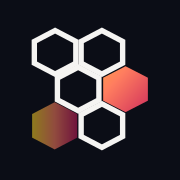
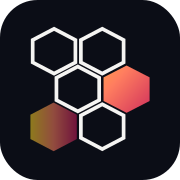
Rebrand apps/web static site + notification email to Nocturne Violet
Nocturne navy surfaces, violet accent, restored gold->flame->crimson ember
gradient across the marketing page and reader; new favicon/og/apple-touch
assets from docs/brand; email CTA button on the brand violet.

Claude-Session: https://claude.ai/code/session_01RsPsPdYDMCQDKQfNmQ5apR

diff --git a/apps/web/index.html b/apps/web/index.html
@@ -6,7 +6,7 @@
 <title>Oxagen — AI coding agents with your context. Governed, metered, on the record.</title>
 <meta name="description" content="Oxagen is an AI coding agent for your terminal and a control plane for your whole fleet. It turns your code and business data into one connected map, so agents get the right answer the first time — and every action is approved, measured, and on the record.">
 <link rel="canonical" href="https://oxagen.sh/">
-<meta name="theme-color" content="#090B11">
+<meta name="theme-color" content="#0B0D16">
 <meta name="color-scheme" content="dark">
 <meta property="og:type" content="website">
 <meta property="og:url" content="https://oxagen.sh/">
@@ -53,22 +53,22 @@
 <style>
 /* ============ tokens ============ */
 :root{
-  --bg:#090B11;
-  --bg-raise:#0C0F17;
-  --surface:#0F121A;
-  --card:#10141D;
-  --line:#292E37;
-  --line-strong:#323A48;
-  --ink:#F1EDEA;
-  --ink-soft:#D8D2CB;
-  --muted:#BCB2A9;
-  --faint:#6F7785;
-  --ember-a:#EB5C5E;
-  --ember-b:#F07650;
-  --ember-c:#FD9A4C;
+  --bg:#0B0D16;
+  --bg-raise:#13101E;
+  --surface:#15131F;
+  --card:#171424;
+  --line:#2B2640;
+  --line-strong:#363050;
+  --ink:#F5F4F2;
+  --ink-soft:#D9D4E3;
+  --muted:#B6AFC9;
+  --faint:#7E7791;
+  --ember-a:#C2185B;
+  --ember-b:#FF7E5F;
+  --ember-c:#F9D423;
   --ember-soft:#261507;
-  --indigo:#9CA3E8;
-  --indigo-soft:#151A30;
+  --indigo:#A78BFA;
+  --indigo-soft:#1E1A2E;
   --ok:#7BC98A;
   --grad-ember:linear-gradient(92deg,var(--ember-a) 0%,var(--ember-b) 46%,var(--ember-c) 100%);
   --radius:14px;
@@ -392,7 +392,7 @@ button,input,textarea{font:inherit;color:inherit}
 .book-scene{perspective:1200px;display:grid;place-items:center;padding:16px 0}
 .book{
   width:min(320px,78%);aspect-ratio:10/15;border-radius:10px;position:relative;
-  background:linear-gradient(160deg,#0D1018 0%,#090B11 60%,#0E0A0C 100%);
+  background:linear-gradient(160deg,#110F1A 0%,#0B0D16 60%,#140E17 100%);
   border:1px solid var(--line-strong);
   box-shadow:24px 34px 70px -30px rgba(0,0,0,.85),0 0 0 1px rgba(255,255,255,.03) inset;
   transform:rotateY(-9deg) rotateX(2deg);
@@ -532,16 +532,16 @@ footer{border-top:1px solid var(--line);background:var(--bg-raise);padding:64px 
 <svg width="0" height="0" style="position:absolute" aria-hidden="true">
   <defs>
     <linearGradient id="emberStroke" x1="0" y1="1" x2="1" y2="0">
-      <stop offset="0" stop-color="#EB5C5E"/><stop offset=".5" stop-color="#F07650"/><stop offset="1" stop-color="#FD9A4C"/>
+      <stop offset="0" stop-color="#C2185B"/><stop offset=".5" stop-color="#FF7E5F"/><stop offset="1" stop-color="#F9D423"/>
     </linearGradient>
     <linearGradient id="emberFill" x1="0" y1="0" x2="1" y2="1">
-      <stop offset="0" stop-color="#FD9A4C"/><stop offset="1" stop-color="#EB5C5E"/>
+      <stop offset="0" stop-color="#F9D423"/><stop offset="1" stop-color="#C2185B"/>
     </linearGradient>
     <linearGradient id="emberStrokeB" x1="0" y1="1" x2="1" y2="0">
-      <stop offset="0" stop-color="#EB5C5E"/><stop offset=".5" stop-color="#F07650"/><stop offset="1" stop-color="#FD9A4C"/>
+      <stop offset="0" stop-color="#C2185B"/><stop offset=".5" stop-color="#FF7E5F"/><stop offset="1" stop-color="#F9D423"/>
     </linearGradient>
     <linearGradient id="emberFillB" x1="0" y1="0" x2="1" y2="1">
-      <stop offset="0" stop-color="#FD9A4C"/><stop offset="1" stop-color="#EB5C5E"/>
+      <stop offset="0" stop-color="#F9D423"/><stop offset="1" stop-color="#C2185B"/>
     </linearGradient>
   </defs>
 </svg>
@@ -549,7 +549,7 @@ footer{border-top:1px solid var(--line);background:var(--bg-raise);padding:64px 
 <header class="nav" id="nav">
   <div class="nav-in">
     <a class="brand" href="#top" aria-label="Oxagen home">
-      <svg viewBox="7.775 4.325 36.343 37.216" aria-hidden="true"><defs><linearGradient gradientTransform="matrix(27.9194 19.5129 -21.9367 24.8347 12.2858 18.2731)" gradientUnits="userSpaceOnUse" id="lgA" x1="0" x2="1" y1="0" y2="0"><stop offset="0" stop-color="#FD9A4B"/><stop offset="0.5" stop-color="#F07650"/><stop offset="1" stop-color="#EB5C5E"/></linearGradient><linearGradient gradientTransform="matrix(12.59 0 0 12.59 9.77471 32.9406)" gradientUnits="userSpaceOnUse" id="lgB" x1="0" x2="1" y1="0" y2="0"><stop offset="0" stop-color="#FD9A4B"/><stop offset="0.5" stop-color="#F07650"/><stop offset="1" stop-color="#EB5C5E"/></linearGradient></defs><path d="M16.1893 6.32478L21.9857 9.3639L21.9857 15.4418L16.1893 18.4806L10.3929 15.4418L10.3929 9.3639L16.1893 6.32478Z" fill="none" stroke="#F1EEEA" stroke-width="1"/><path d="M29.2662 6.32478L35.0626 9.3639L35.0626 15.4418L29.2662 18.4806L23.4698 15.4418L23.4698 9.3639L29.2662 6.32478Z" fill="none" stroke="#F1EEEA" stroke-width="1"/><path d="M22.6376 16.5647L28.4341 19.6038L28.4341 25.6814L22.6376 28.7205L16.8412 25.6814L16.8412 19.6038L22.6376 16.5647Z" fill="none" stroke="#F1EEEA" stroke-width="1"/><path d="M35.8698 16.2903L42.1182 19.4993L42.1182 25.9165L35.8698 29.1255L29.6214 25.9165L29.6214 19.4993L35.8698 16.2903Z" fill="url(#lgA)"/><path d="M16.0697 26.3399L22.3647 29.6401L22.3647 36.2408L16.0697 39.5413L9.77471 36.2408L9.77471 29.6401L16.0697 26.3399Z" fill="url(#lgB)" opacity="0.55"/><path d="M29.2662 26.8043L35.0626 29.8431L35.0626 35.921L29.2662 38.9601L23.4698 35.921L23.4698 29.8431L29.2662 26.8043Z" fill="none" stroke="#F1EEEA" stroke-width="1"/></svg>
+      <svg viewBox="7.775 4.325 36.343 37.216" aria-hidden="true"><defs><linearGradient gradientTransform="matrix(27.9194 19.5129 -21.9367 24.8347 12.2858 18.2731)" gradientUnits="userSpaceOnUse" id="lgA" x1="0" x2="1" y1="0" y2="0"><stop offset="0" stop-color="#F9D423"/><stop offset="0.5" stop-color="#FF7E5F"/><stop offset="1" stop-color="#C2185B"/></linearGradient><linearGradient gradientTransform="matrix(12.59 0 0 12.59 9.77471 32.9406)" gradientUnits="userSpaceOnUse" id="lgB" x1="0" x2="1" y1="0" y2="0"><stop offset="0" stop-color="#F9D423"/><stop offset="0.5" stop-color="#FF7E5F"/><stop offset="1" stop-color="#C2185B"/></linearGradient></defs><path d="M16.1893 6.32478L21.9857 9.3639L21.9857 15.4418L16.1893 18.4806L10.3929 15.4418L10.3929 9.3639L16.1893 6.32478Z" fill="none" stroke="#F5F4F2" stroke-width="1"/><path d="M29.2662 6.32478L35.0626 9.3639L35.0626 15.4418L29.2662 18.4806L23.4698 15.4418L23.4698 9.3639L29.2662 6.32478Z" fill="none" stroke="#F5F4F2" stroke-width="1"/><path d="M22.6376 16.5647L28.4341 19.6038L28.4341 25.6814L22.6376 28.7205L16.8412 25.6814L16.8412 19.6038L22.6376 16.5647Z" fill="none" stroke="#F5F4F2" stroke-width="1"/><path d="M35.8698 16.2903L42.1182 19.4993L42.1182 25.9165L35.8698 29.1255L29.6214 25.9165L29.6214 19.4993L35.8698 16.2903Z" fill="url(#lgA)"/><path d="M16.0697 26.3399L22.3647 29.6401L22.3647 36.2408L16.0697 39.5413L9.77471 36.2408L9.77471 29.6401L16.0697 26.3399Z" fill="url(#lgB)" opacity="0.55"/><path d="M29.2662 26.8043L35.0626 29.8431L35.0626 35.921L29.2662 38.9601L23.4698 35.921L23.4698 29.8431L29.2662 26.8043Z" fill="none" stroke="#F5F4F2" stroke-width="1"/></svg>
       oxagen
     </a>
     <nav class="nav-links" aria-label="Sections">
@@ -993,7 +993,7 @@ footer{border-top:1px solid var(--line);background:var(--bg-raise);padding:64px 
     <div class="foot-grid">
       <div class="foot-brand">
         <a class="brand" href="#top" aria-label="Oxagen home">
-          <svg viewBox="7.775 4.325 36.343 37.216" aria-hidden="true"><defs><linearGradient gradientTransform="matrix(27.9194 19.5129 -21.9367 24.8347 12.2858 18.2731)" gradientUnits="userSpaceOnUse" id="lgC" x1="0" x2="1" y1="0" y2="0"><stop offset="0" stop-color="#FD9A4B"/><stop offset="0.5" stop-color="#F07650"/><stop offset="1" stop-color="#EB5C5E"/></linearGradient><linearGradient gradientTransform="matrix(12.59 0 0 12.59 9.77471 32.9406)" gradientUnits="userSpaceOnUse" id="lgD" x1="0" x2="1" y1="0" y2="0"><stop offset="0" stop-color="#FD9A4B"/><stop offset="0.5" stop-color="#F07650"/><stop offset="1" stop-color="#EB5C5E"/></linearGradient></defs><path d="M16.1893 6.32478L21.9857 9.3639L21.9857 15.4418L16.1893 18.4806L10.3929 15.4418L10.3929 9.3639L16.1893 6.32478Z" fill="none" stroke="#F1EEEA" stroke-width="1"/><path d="M29.2662 6.32478L35.0626 9.3639L35.0626 15.4418L29.2662 18.4806L23.4698 15.4418L23.4698 9.3639L29.2662 6.32478Z" fill="none" stroke="#F1EEEA" stroke-width="1"/><path d="M22.6376 16.5647L28.4341 19.6038L28.4341 25.6814L22.6376 28.7205L16.8412 25.6814L16.8412 19.6038L22.6376 16.5647Z" fill="none" stroke="#F1EEEA" stroke-width="1"/><path d="M35.8698 16.2903L42.1182 19.4993L42.1182 25.9165L35.8698 29.1255L29.6214 25.9165L29.6214 19.4993L35.8698 16.2903Z" fill="url(#lgC)"/><path d="M16.0697 26.3399L22.3647 29.6401L22.3647 36.2408L16.0697 39.5413L9.77471 36.2408L9.77471 29.6401L16.0697 26.3399Z" fill="url(#lgD)" opacity="0.55"/><path d="M29.2662 26.8043L35.0626 29.8431L35.0626 35.921L29.2662 38.9601L23.4698 35.921L23.4698 29.8431L29.2662 26.8043Z" fill="none" stroke="#F1EEEA" stroke-width="1"/></svg>
+          <svg viewBox="7.775 4.325 36.343 37.216" aria-hidden="true"><defs><linearGradient gradientTransform="matrix(27.9194 19.5129 -21.9367 24.8347 12.2858 18.2731)" gradientUnits="userSpaceOnUse" id="lgC" x1="0" x2="1" y1="0" y2="0"><stop offset="0" stop-color="#F9D423"/><stop offset="0.5" stop-color="#FF7E5F"/><stop offset="1" stop-color="#C2185B"/></linearGradient><linearGradient gradientTransform="matrix(12.59 0 0 12.59 9.77471 32.9406)" gradientUnits="userSpaceOnUse" id="lgD" x1="0" x2="1" y1="0" y2="0"><stop offset="0" stop-color="#F9D423"/><stop offset="0.5" stop-color="#FF7E5F"/><stop offset="1" stop-color="#C2185B"/></linearGradient></defs><path d="M16.1893 6.32478L21.9857 9.3639L21.9857 15.4418L16.1893 18.4806L10.3929 15.4418L10.3929 9.3639L16.1893 6.32478Z" fill="none" stroke="#F5F4F2" stroke-width="1"/><path d="M29.2662 6.32478L35.0626 9.3639L35.0626 15.4418L29.2662 18.4806L23.4698 15.4418L23.4698 9.3639L29.2662 6.32478Z" fill="none" stroke="#F5F4F2" stroke-width="1"/><path d="M22.6376 16.5647L28.4341 19.6038L28.4341 25.6814L22.6376 28.7205L16.8412 25.6814L16.8412 19.6038L22.6376 16.5647Z" fill="none" stroke="#F5F4F2" stroke-width="1"/><path d="M35.8698 16.2903L42.1182 19.4993L42.1182 25.9165L35.8698 29.1255L29.6214 25.9165L29.6214 19.4993L35.8698 16.2903Z" fill="url(#lgC)"/><path d="M16.0697 26.3399L22.3647 29.6401L22.3647 36.2408L16.0697 39.5413L9.77471 36.2408L9.77471 29.6401L16.0697 26.3399Z" fill="url(#lgD)" opacity="0.55"/><path d="M29.2662 26.8043L35.0626 29.8431L35.0626 35.921L29.2662 38.9601L23.4698 35.921L23.4698 29.8431L29.2662 26.8043Z" fill="none" stroke="#F5F4F2" stroke-width="1"/></svg>
           oxagen
         </a>
         <p>Everyone has the same models.<br>Your edge is context.</p>

diff --git a/apps/web/read/index.html b/apps/web/read/index.html
@@ -6,7 +6,7 @@
 <title>Engineering Deterministic AI Coding Agents — Oxagen</title>
 <meta name="description" content="A free 14-part field manual on building deterministic AI coding agents — systems that get the right answer the first time, from any model. By Mac Anderson.">
 <link rel="canonical" href="https://oxagen.sh/read">
-<meta name="theme-color" content="#090B11">
+<meta name="theme-color" content="#0B0D16">
 <meta name="color-scheme" content="dark">
 <meta property="og:type" content="book">
 <meta property="og:url" content="https://oxagen.sh/read">
@@ -44,22 +44,22 @@
 <style>
 /* ============ tokens (matches apps/web/index.html) ============ */
 :root{
-  --bg:#090B11;
-  --bg-raise:#0C0F17;
-  --surface:#0F121A;
-  --card:#10141D;
-  --line:#292E37;
-  --line-strong:#323A48;
-  --ink:#F1EDEA;
-  --ink-soft:#D8D2CB;
-  --muted:#BCB2A9;
-  --faint:#6F7785;
-  --ember-a:#EB5C5E;
-  --ember-b:#F07650;
-  --ember-c:#FD9A4C;
+  --bg:#0B0D16;
+  --bg-raise:#13101E;
+  --surface:#15131F;
+  --card:#171424;
+  --line:#2B2640;
+  --line-strong:#363050;
+  --ink:#F5F4F2;
+  --ink-soft:#D9D4E3;
+  --muted:#B6AFC9;
+  --faint:#7E7791;
+  --ember-a:#C2185B;
+  --ember-b:#FF7E5F;
+  --ember-c:#F9D423;
   --ember-soft:#261507;
-  --indigo:#9CA3E8;
-  --indigo-soft:#151A30;
+  --indigo:#A78BFA;
+  --indigo-soft:#1E1A2E;
   --ok:#7BC98A;
   --grad-ember:linear-gradient(92deg,var(--ember-a) 0%,var(--ember-b) 46%,var(--ember-c) 100%);
   --radius:14px;
@@ -189,7 +189,7 @@ main{flex:1;position:relative}
 .book-scene{perspective:1200px;display:grid;place-items:center;padding:4px 0}
 .book{
   width:min(220px,58%);aspect-ratio:10/15;border-radius:10px;position:relative;
-  background:linear-gradient(160deg,#0D1018 0%,#090B11 60%,#0E0A0C 100%);
+  background:linear-gradient(160deg,#110F1A 0%,#0B0D16 60%,#140E17 100%);
   border:1px solid var(--line-strong);
   box-shadow:18px 26px 56px -26px rgba(0,0,0,.85),0 0 0 1px rgba(255,255,255,.03) inset;
   transform:rotateY(-9deg) rotateX(2deg);
@@ -296,7 +296,7 @@ main{flex:1;position:relative}
 <header class="gate-header">
   <div class="wrap">
     <a class="brand" href="https://oxagen.sh" aria-label="Oxagen home">
-      <svg viewBox="7.775 4.325 36.343 37.216" aria-hidden="true"><defs><linearGradient gradientTransform="matrix(27.9194 19.5129 -21.9367 24.8347 12.2858 18.2731)" gradientUnits="userSpaceOnUse" id="lgR1" x1="0" x2="1" y1="0" y2="0"><stop offset="0" stop-color="#FD9A4B"/><stop offset="0.5" stop-color="#F07650"/><stop offset="1" stop-color="#EB5C5E"/></linearGradient><linearGradient gradientTransform="matrix(12.59 0 0 12.59 9.77471 32.9406)" gradientUnits="userSpaceOnUse" id="lgR2" x1="0" x2="1" y1="0" y2="0"><stop offset="0" stop-color="#FD9A4B"/><stop offset="0.5" stop-color="#F07650"/><stop offset="1" stop-color="#EB5C5E"/></linearGradient></defs><path d="M16.1893 6.32478L21.9857 9.3639L21.9857 15.4418L16.1893 18.4806L10.3929 15.4418L10.3929 9.3639L16.1893 6.32478Z" fill="none" stroke="#F1EEEA" stroke-width="1"/><path d="M29.2662 6.32478L35.0626 9.3639L35.0626 15.4418L29.2662 18.4806L23.4698 15.4418L23.4698 9.3639L29.2662 6.32478Z" fill="none" stroke="#F1EEEA" stroke-width="1"/><path d="M22.6376 16.5647L28.4341 19.6038L28.4341 25.6814L22.6376 28.7205L16.8412 25.6814L16.8412 19.6038L22.6376 16.5647Z" fill="none" stroke="#F1EEEA" stroke-width="1"/><path d="M35.8698 16.2903L42.1182 19.4993L42.1182 25.9165L35.8698 29.1255L29.6214 25.9165L29.6214 19.4993L35.8698 16.2903Z" fill="url(#lgR1)"/><path d="M16.0697 26.3399L22.3647 29.6401L22.3647 36.2408L16.0697 39.5413L9.77471 36.2408L9.77471 29.6401L16.0697 26.3399Z" fill="url(#lgR2)" opacity="0.55"/><path d="M29.2662 26.8043L35.0626 29.8431L35.0626 35.921L29.2662 38.9601L23.4698 35.921L23.4698 29.8431L29.2662 26.8043Z" fill="none" stroke="#F1EEEA" stroke-width="1"/></svg>
+      <svg viewBox="7.775 4.325 36.343 37.216" aria-hidden="true"><defs><linearGradient gradientTransform="matrix(27.9194 19.5129 -21.9367 24.8347 12.2858 18.2731)" gradientUnits="userSpaceOnUse" id="lgR1" x1="0" x2="1" y1="0" y2="0"><stop offset="0" stop-color="#F9D423"/><stop offset="0.5" stop-color="#FF7E5F"/><stop offset="1" stop-color="#C2185B"/></linearGradient><linearGradient gradientTransform="matrix(12.59 0 0 12.59 9.77471 32.9406)" gradientUnits="userSpaceOnUse" id="lgR2" x1="0" x2="1" y1="0" y2="0"><stop offset="0" stop-color="#F9D423"/><stop offset="0.5" stop-color="#FF7E5F"/><stop offset="1" stop-color="#C2185B"/></linearGradient></defs><path d="M16.1893 6.32478L21.9857 9.3639L21.9857 15.4418L16.1893 18.4806L10.3929 15.4418L10.3929 9.3639L16.1893 6.32478Z" fill="none" stroke="#F5F4F2" stroke-width="1"/><path d="M29.2662 6.32478L35.0626 9.3639L35.0626 15.4418L29.2662 18.4806L23.4698 15.4418L23.4698 9.3639L29.2662 6.32478Z" fill="none" stroke="#F5F4F2" stroke-width="1"/><path d="M22.6376 16.5647L28.4341 19.6038L28.4341 25.6814L22.6376 28.7205L16.8412 25.6814L16.8412 19.6038L22.6376 16.5647Z" fill="none" stroke="#F5F4F2" stroke-width="1"/><path d="M35.8698 16.2903L42.1182 19.4993L42.1182 25.9165L35.8698 29.1255L29.6214 25.9165L29.6214 19.4993L35.8698 16.2903Z" fill="url(#lgR1)"/><path d="M16.0697 26.3399L22.3647 29.6401L22.3647 36.2408L16.0697 39.5413L9.77471 36.2408L9.77471 29.6401L16.0697 26.3399Z" fill="url(#lgR2)" opacity="0.55"/><path d="M29.2662 26.8043L35.0626 29.8431L35.0626 35.921L29.2662 38.9601L23.4698 35.921L23.4698 29.8431L29.2662 26.8043Z" fill="none" stroke="#F5F4F2" stroke-width="1"/></svg>
       oxagen
     </a>
   </div>
@@ -484,9 +484,9 @@ main{flex:1;position:relative}
 </footer>
 
 <noscript>
-  <div style="max-width:560px;margin:40px auto;padding:20px;text-align:center;color:#BCB2A9">
+  <div style="max-width:560px;margin:40px auto;padding:20px;text-align:center;color:#B6AFC9">
     Please enable JavaScript to request the book, or email
-    <a href="mailto:success@oxagen.ai" style="color:#9CA3E8">success@oxagen.ai</a> and we'll send it to you.
+    <a href="mailto:success@oxagen.ai" style="color:#A78BFA">success@oxagen.ai</a> and we'll send it to you.
   </div>
 </noscript>
 

diff --git a/packages/notifications/src/notifications/book-access-email-template.ts b/packages/notifications/src/notifications/book-access-email-template.ts
@@ -70,7 +70,7 @@ export function bookAccessEmailTemplate(input: BookAccessEmailTemplateInput): {
       </p>
       <p style="margin:0 0 24px">
         <a href="${esc(readUrl)}"
-           style="display:inline-block;background:#F07650;color:#ffffff;font-size:14px;font-weight:600;padding:11px 22px;border-radius:8px;text-decoration:none">
+           style="display:inline-block;background:#6E48CE;color:#ffffff;font-size:14px;font-weight:600;padding:11px 22px;border-radius:8px;text-decoration:none">
           Read the book &rarr;</a>
       </p>
       <p style="font-size:13px;color:#6b7280;margin:0 0 8px">
